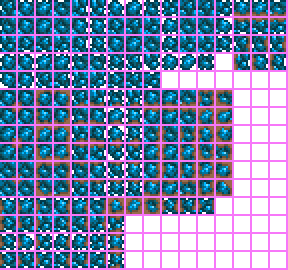
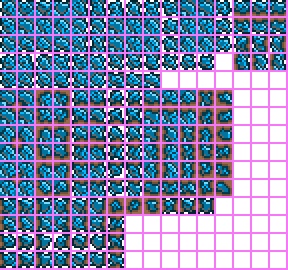
Thing

diff --git a/SpiritMod/NPCs/ModGlobalNPC.cs b/SpiritMod/NPCs/ModGlobalNPC.cs
@@ -24,7 +24,18 @@ namespace SpiritMod.NPCs
                     Item.NewItem((int)npc.position.X, (int)npc.position.Y, npc.width, npc.height, mod.ItemType("PaladinGreaves"));
                 }
             }
-            
+            if (Main.bloodMoon)   
+            {
+                if (Main.rand.Next(1) == 0)      
+                {
+                    if (npc.type == NPCID.Clothier)
+                    {
+                        Item.NewItem((int)npc.position.X, (int)npc.position.Y, npc.width, npc.height, mod.ItemType("ZocklukasWings"));
+                        Item.NewItem((int)npc.position.X, (int)npc.position.Y, npc.width, npc.height, mod.ItemType("ZocklukasRing"));
+                    }
+                }
+              
+            }
             if (Main.rand.Next(98) == 0)    
             {
                 if (npc.type == NPCID.MartianTurret)    

diff --git a/SpiritMod/NPCs/ShootingStar.cs b/SpiritMod/NPCs/ShootingStar.cs
@@ -19,11 +19,9 @@ namespace SpiritMod.NPCs
             npc.soundKilled = 6;
             npc.value = 60f;
             npc.knockBackResist = 0f;
-            npc.noGravity = true;
-            npc.noTileCollide = true;
             npc.aiStyle = 56;
             Main.npcFrameCount[npc.type] = Main.npcFrameCount[NPCID.ChaosBall];
-            aiType = NPCID.DungeonSpirit;
+            aiType = NPCID.ChaosBall;
             animationType = NPCID.ChaosBall;
         }
 

diff --git a/SpiritMod/MyWorld.cs b/SpiritMod/MyWorld.cs
@@ -39,8 +39,8 @@ public override void Initialize()
 			int Yvalue = (int)Main.worldSurface - 300;
 			int XvalueHigh = Xvalue + 300;
 			int YvalueHigh = Yvalue + 600;
-			int XvalueMid = Xvalue + 150;
-			int YvalueMid = Yvalue + 300;
+			int XvalueMid = Xvalue + 80;
+			int YvalueMid = Yvalue + 160;
 			for (int A = Xvalue; A < XvalueHigh; A++)
 			{
 				for (int B = Yvalue; B < YvalueHigh; B++)

diff --git a/SpiritMod/NPCs/Sharkon.cs b/SpiritMod/NPCs/Sharkon.cs
@@ -19,7 +19,6 @@ namespace SpiritMod.NPCs
             npc.soundKilled = 1;
             npc.value = 60f;
             npc.knockBackResist = .55f;
-            npc.noGravity = true;
             npc.aiStyle = 16;
             Main.npcFrameCount[npc.type] = Main.npcFrameCount[NPCID.Shark];
             aiType = NPCID.Shark;
